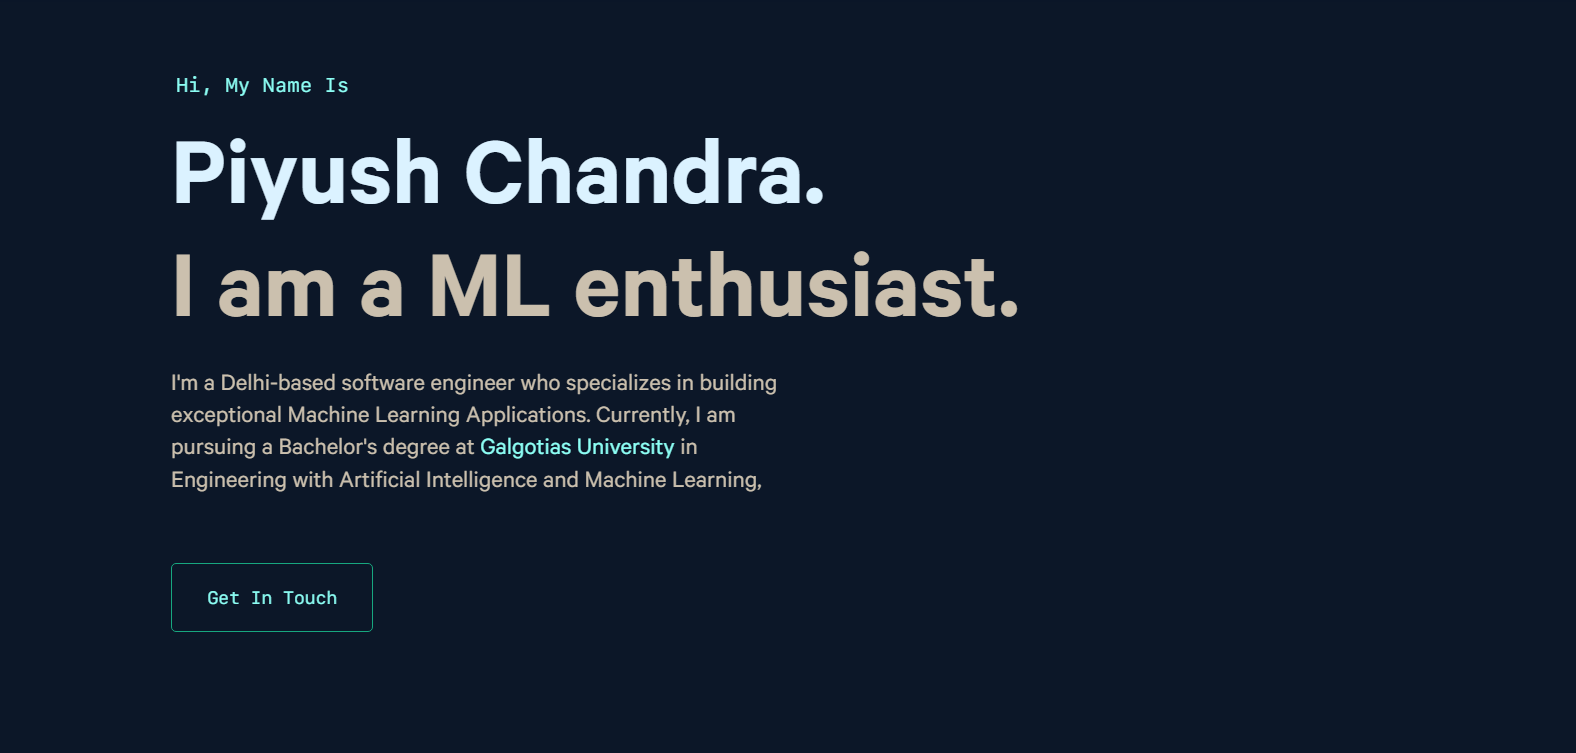
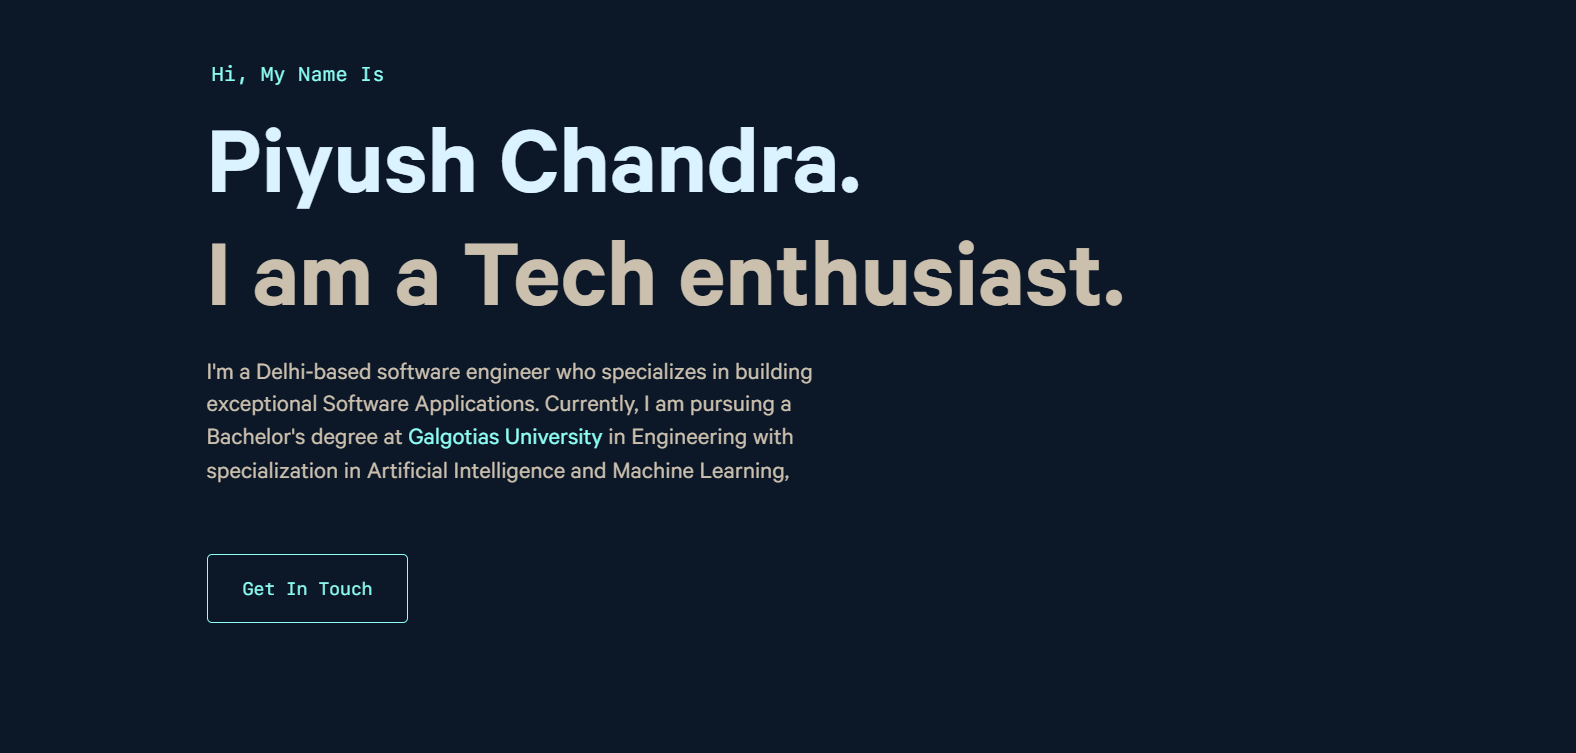
Images, readme, title update

diff --git a/gatsby-config.js b/gatsby-config.js
@@ -2,7 +2,7 @@ const config = require('./src/config');
 
 module.exports = {
   siteMetadata: {
-    title: 'Piyush Chandra | ML Engineer',
+    title: 'Piyush Chandra | CS Engineer',
     description:
       'Piyush Chandra is a software engineer who specializes in building (and occasionally designing) exceptional digital experiences.',
     siteUrl: 'https://piyushchandra357.github.io', // No trailing slash allowed!

diff --git a/README.md b/README.md
@@ -10,7 +10,6 @@
 
 ![demo](https://raw.githubusercontent.com/piyushchandra357/piyushchandra357.github.io/code/src/images/demo.png)
 
-
 ### TL;DR
 
 Yes, you can fork this repo. Please give proper credit by linking back to [brittanychiang.com](https://brittanychiang.com). Thanks!
@@ -54,12 +53,15 @@ Yes, you can fork this repo. Please give proper credit by linking back to [britt
    ```sh
    npm run serve
    ```
+
 3. Build & Deployment to GitHub. Automatically creates a master branch for deployment.
 
    ```sh
    gatsby build && gh-pages -d public -b master
    ```
-### Note: You need to have Git installed on your machine and also need to authorize it after running this command for deployment.
+
+### Note: You need to have Git installed on your machine and also need to authorize it after running this command for deployment
+
 <br>
 
 ## 🎨 Color Reference
